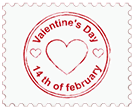
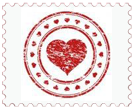
upd stamp & rename font

Changed region(s): [[0.1481, 0.0818, 0.8296, 0.9]]

diff --git a/css/style.css b/css/style.css
@@ -1,9 +1,9 @@
 @font-face {
 	font-family: 'Satisfy';
-  font-style: normal;
-  font-weight: 400;
-  src: local('Satisfy Regular'), local('Satisfy-Regular'), url(../font/rP2Hp2yn6lkG50LoCZOIHQ.woff2) format('woff2');
-  unicode-range: U+0000-00FF, U+0131, U+0152-0153, U+02BB-02BC, U+02C6, U+02DA, U+02DC, U+2000-206F, U+2074, U+20AC, U+2122, U+2191, U+2193, U+2212, U+2215, U+FEFF, U+FFFD;
+	font-style: normal;
+	font-weight: 400;
+	src: local('Satisfy Regular'), local('Satisfy-Regular'), url(../font/op.woff2) format('woff2');
+	unicode-range: U+0000-00FF, U+0131, U+0152-0153, U+02BB-02BC, U+02C6, U+02DA, U+02DC, U+2000-206F, U+2074, U+20AC, U+2122, U+2191, U+2193, U+2212, U+2215, U+FEFF, U+FFFD;
 }
 
 #jsi-cherry-container {
@@ -20,8 +20,8 @@
 }
 
 #footer {
-  position: fixed;
-  top: 10px;
+	position: fixed;
+	top: 10px;
 	right: 10px;
 }
 
@@ -37,7 +37,7 @@
 }
 
 #envelope {
-  display: none;
+	display: none;
 }
 
 body {
@@ -102,19 +102,87 @@ span {
 }
 
 /* reset */
-html, body, div, span, applet, object, iframe,
-h1, h2, h3, h4, h5, h6, p, blockquote, pre,
-a, abbr, acronym, address, big, cite, code,
-del, dfn, em, img, ins, kbd, q, s, samp,
-small, strike, strong, sub, sup, tt, var,
-b, u, i, center,
-dl, dt, dd, ol, ul, li,
-fieldset, form, label, legend,
-table, caption, tbody, tfoot, thead, tr, th, td,
-article, aside, canvas, details, embed,
-figure, figcaption, footer, header, hgroup,
-menu, nav, output, ruby, section, summary,
-time, mark, audio, video {
+html,
+body,
+div,
+span,
+applet,
+object,
+iframe,
+h1,
+h2,
+h3,
+h4,
+h5,
+h6,
+p,
+blockquote,
+pre,
+a,
+abbr,
+acronym,
+address,
+big,
+cite,
+code,
+del,
+dfn,
+em,
+img,
+ins,
+kbd,
+q,
+s,
+samp,
+small,
+strike,
+strong,
+sub,
+sup,
+tt,
+var,
+b,
+u,
+i,
+center,
+dl,
+dt,
+dd,
+ol,
+ul,
+li,
+fieldset,
+form,
+label,
+legend,
+table,
+caption,
+tbody,
+tfoot,
+thead,
+tr,
+th,
+td,
+article,
+aside,
+canvas,
+details,
+embed,
+figure,
+figcaption,
+footer,
+header,
+hgroup,
+menu,
+nav,
+output,
+ruby,
+section,
+summary,
+time,
+mark,
+audio,
+video {
 	margin: 0;
 	padding: 0;
 	border: 0;
@@ -128,7 +196,18 @@ html {
 	content-zooming: none;
 }
 
-article, aside, details, figcaption, figure, footer, header, hgroup, menu, nav, section, summary {
+article,
+aside,
+details,
+figcaption,
+figure,
+footer,
+header,
+hgroup,
+menu,
+nav,
+section,
+summary {
 	display: block;
 }
 
@@ -194,7 +273,7 @@ section.container {
 	-moz-perspective: 1000px;
 }
 
-section.container > form.flip {
+section.container>form.flip {
 	width: 100%;
 	height: 100%;
 	position: absolute;
@@ -208,7 +287,8 @@ section.container > form.flip {
 	-moz-transform-origin: center center;
 }
 
-section.container > form.flip > .front, section.container > form.flip > .back {
+section.container>form.flip>.front,
+section.container>form.flip>.back {
 	position: absolute;
 	width: 100%;
 	height: 100%;
@@ -217,7 +297,7 @@ section.container > form.flip > .front, section.container > form.flip > .back {
 	-moz-backface-visibility: hidden;
 }
 
-section.container > form.flip > .back {
+section.container>form.flip>.back {
 	-webkit-transform: rotateY(180deg);
 	-moz-transform: rotateY(180deg);
 	transform: rotateY(180deg);
@@ -225,13 +305,13 @@ section.container > form.flip > .back {
 	box-shadow: inset 0 10px 30px -10px rgba(0, 0, 0, 0.3), inset 0 1px 0 rgba(0, 0, 0, 0.2), inset 0 2px 0 rgba(255, 255, 255, 0.2);
 }
 
-section.container:target > form.flip {
+section.container:target>form.flip {
 	-webkit-transform: rotateY(0deg);
 	-moz-transform: rotateY(0deg);
 	transform: rotateY(0deg);
 }
 
-.no-csstransforms3d section.container:target > form.flip > .back {
+.no-csstransforms3d section.container:target>form.flip>.back {
 	display: none;
 }
 
@@ -294,7 +374,8 @@ section.container:target > form.flip {
 	transform-origin: left top;
 }
 
-#lid .flip > .front, #lid .flip > .back {
+#lid .flip>.front,
+#lid .flip>.back {
 	position: absolute;
 	width: 100%;
 	height: 100%;
@@ -303,7 +384,7 @@ section.container:target > form.flip {
 	backface-visibility: hidden;
 }
 
-#lid .flip > .back {
+#lid .flip>.back {
 	-webkit-transform: rotateX(180deg);
 	-moz-transform: rotateX(180deg);
 	transform: rotateX(180deg);
@@ -321,22 +402,25 @@ section.container:target > form.flip {
 	transition-delay: 0s;
 }
 
-#letter .flip > div, #lid .flip > div, section.container > form.flip > div {
+#letter .flip>div,
+#lid .flip>div,
+section.container>form.flip>div {
 	-webkit-box-sizing: border-box;
 	-moz-box-sizing: border-box;
 	box-sizing: border-box;
 }
 
-#lid .flip .front, section.container > form.flip .front {
+#lid .flip .front,
+section.container>form.flip .front {
 	background: beige url("../img/bg.png");
 	border: 1px #eae1d5 solid;
 	box-shadow: inset 0 0 10px 1px rgba(255, 255, 255, 0.6), 0 2px 3px -2px rgba(0, 0, 0, 0.6);
 	padding: 20px 30px;
 	color: #837362;
-	text-shadow: 0 1px 0 #fff,0 1px 0 #fff;
+	text-shadow: 0 1px 0 #fff, 0 1px 0 #fff;
 }
 
-section.container > form.flip > .front {
+section.container>form.flip>.front {
 	font-size: 1.25em;
 	background: beige url("../img/bg.png");
 	background: url("../img/stamp.png") no-repeat 450px 20px, url("../img/bg.png");
@@ -401,7 +485,7 @@ section.container > form.flip > .front {
 #letter .container {
 	position: absolute;
 	width: 100%;
-  /*height: 50%;*/
+	/*height: 50%;*/
 	-webkit-perspective: 800px;
 	-moz-perspective: 800px;
 	perspective: 800px;
@@ -431,7 +515,8 @@ section.container > form.flip > .front {
 	transform-origin: left top;
 }
 
-#letter .flip > .front, #letter .flip > .back {
+#letter .flip>.front,
+#letter .flip>.back {
 	position: absolute;
 	width: 100%;
 	height: 100%;
@@ -440,7 +525,7 @@ section.container > form.flip > .front {
 	backface-visibility: hidden;
 }
 
-#letter .flip > .back {
+#letter .flip>.back {
 	-webkit-transform: rotateX(180deg);
 	-moz-transform: rotateX(180deg);
 	transform: rotateX(180deg);
@@ -545,7 +630,8 @@ input[type="submit"]:hover {
 }
 
 /*-------ie8-----------*/
-.container.target > form.flip > .back, #content.target #letter .flip .front {
+.container.target>form.flip>.back,
+#content.target #letter .flip .front {
 	display: none;
 }
 
